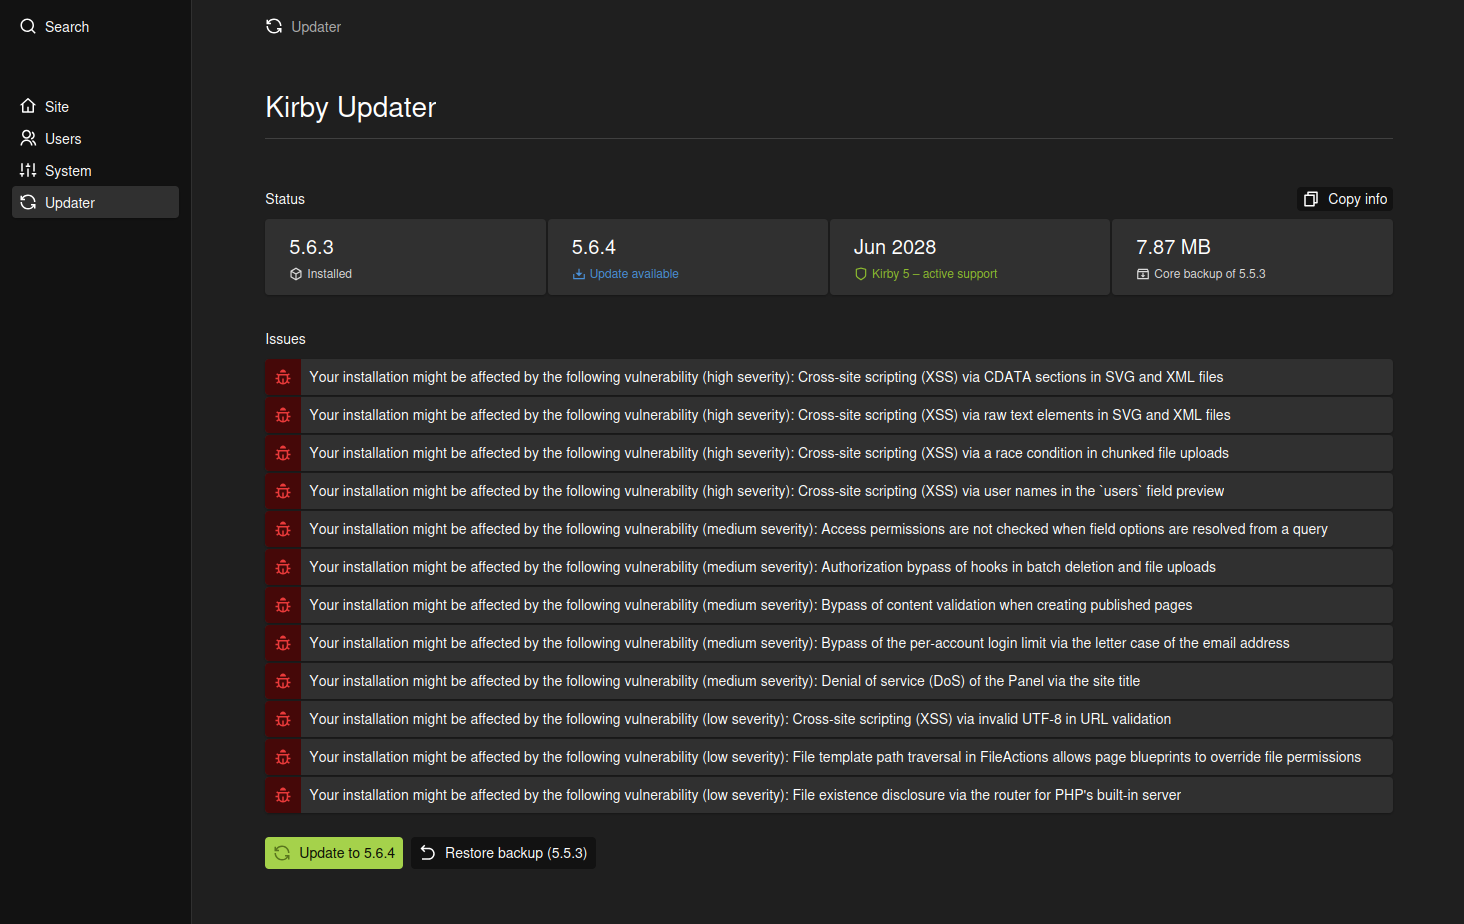
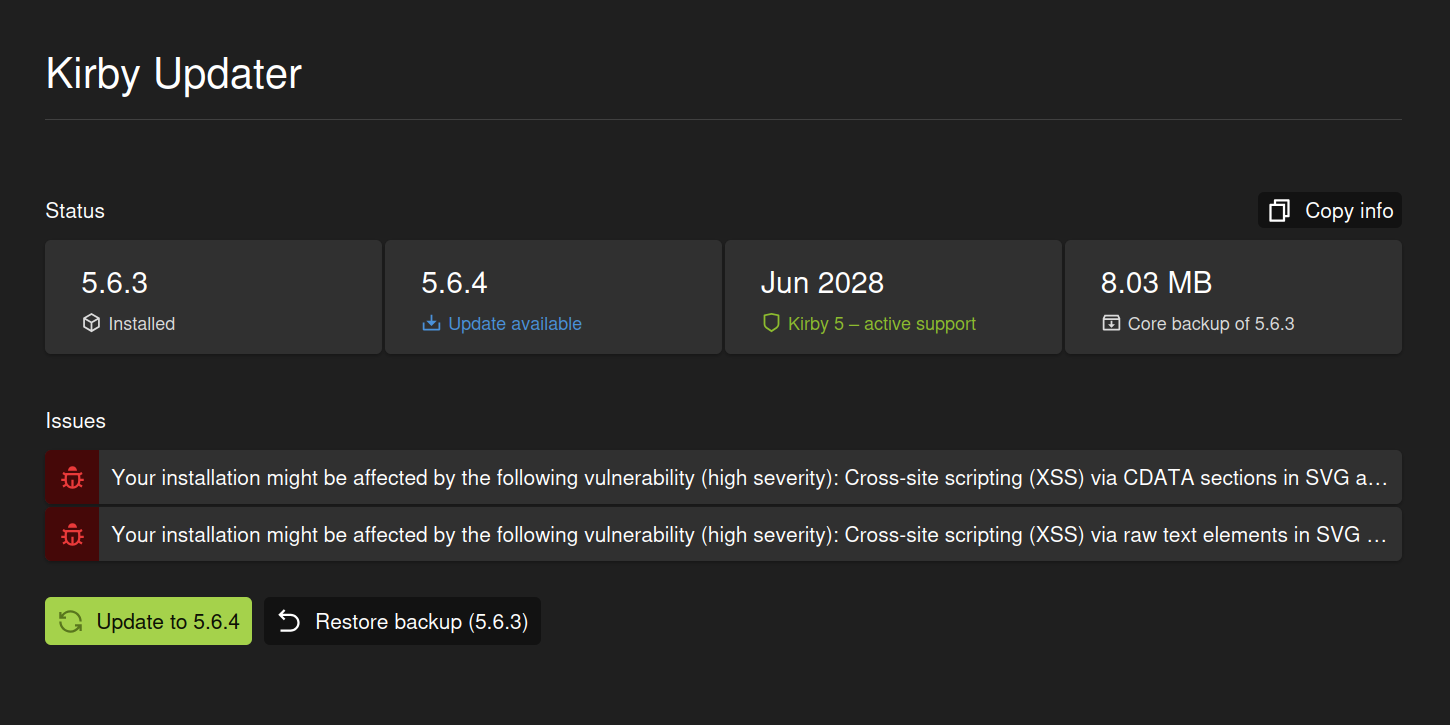
➕ Support patch-only updates via the new releases.json endpoint

diff --git a/src/Updater.php b/src/Updater.php
@@ -19,6 +19,7 @@ use Throwable;
 class Updater
 {
 	public const DATA_URL     = 'https://getkirby.com/security.json';
+	public const RELEASES_URL = 'https://getkirby.com/releases.json';
 	public const DOWNLOAD_URL = 'https://github.com/getkirby/kirby/archive/refs/tags/{version}.zip';
 
 	protected array|null $data = null;
@@ -49,7 +50,7 @@ class Updater
 	{
 		try {
 			$target   = $this->targetVersion();
-			$blockers = $this->blockers($target);
+			$blockers = $this->blockers();
 		} catch (Throwable $e) {
 			$target   = null;
 			$blockers = [$e->getMessage()];
@@ -93,7 +94,8 @@ class Updater
 	}
 
 	/**
-	 * Latest release of the current major version,
+	 * Latest release of the current major version (or of the current
+	 * minor version, if minor updates are disabled),
 	 * `null` if the installation is up to date
 	 */
 	public function targetVersion(): string|null
@@ -101,6 +103,10 @@ class Updater
 		$current = $this->kirby->version();
 		$major   = explode('.', $current)[0];
 		$latest  = $this->data()['versions'][$major . '.*']['latest'] ?? null;
+
+		if ($this->option('allowMinor') === false) {
+			$latest = $this->latestPatch($current);
+		}
 
 		if (is_string($latest) === false || version_compare($latest, $current, '<=') === true) {
 			return null;
@@ -112,7 +118,7 @@ class Updater
 	/**
 	 * Reasons that prevent an update
 	 */
-	public function blockers(string|null $target = null): array
+	public function blockers(): array
 	{
 		$root     = $this->root();
 		$parent   = dirname($root);
@@ -147,14 +153,6 @@ class Updater
 			$blockers[] = 'The kirby folder and the site folder are on different filesystems.';
 		}
 
-		if (
-			$target !== null &&
-			$this->option('allowMinor') === false &&
-			$this->minor($target) !== $this->minor($this->kirby->version())
-		) {
-			$blockers[] = 'Minor updates are disabled by the `devmount.kirby-updater.allowMinor` option.';
-		}
-
 		$free = @disk_free_space($site);
 		$size = Dir::size($root);
 
@@ -187,7 +185,7 @@ class Updater
 		try {
 			$target = $this->targetVersion() ?? throw new Exception(message: 'Kirby is already up to date');
 
-			if (($blockers = $this->blockers($target)) !== []) {
+			if (($blockers = $this->blockers()) !== []) {
 				throw new Exception(message: implode(' ', $blockers));
 			}
 
@@ -446,6 +444,25 @@ class Updater
 		}
 
 		return $this->data = $data;
+	}
+
+	/**
+	 * Latest release of the given minor version,
+	 * based on the list of all Kirby releases
+	 */
+	protected function latestPatch(string $version): string|null
+	{
+		$response = Remote::get(static::RELEASES_URL, ['timeout' => 10]);
+		$versions = $response->code() === 200 ? $response->json()['versions'] ?? null : null;
+
+		if (is_array($versions) === false) {
+			throw new Exception(message: 'Could not load the release list from getkirby.com');
+		}
+
+		$patches = array_filter($versions, fn ($release) => $this->minor($release) === $this->minor($version));
+		usort($patches, 'version_compare');
+
+		return end($patches) ?: null;
 	}
 
 	protected function versionOf(string $dir): string|null

diff --git a/README.md b/README.md
@@ -51,7 +51,7 @@ return [
   'devmount.kirby-updater' => [
     // number of kirby folder backups to keep (at least 1)
     'backups'    => 1,
-    // false only allows patch updates
+    // false only allows patch updates of the installed minor version
     'allowMinor' => true,
     // false, true (requests the Panel login page) or a URL
     // that is requested after the swap, rolling back on a 5xx response
@@ -64,7 +64,6 @@ return [
 
 - Plugins may be incompatible with a new minor release. Use "Restore backup" in that case.
 - Any changes made inside the `kirby/` folder are replaced by the update. They only survive in the backup until the next update removes it.
-- getkirby.com only publishes the latest release per major version. With `allowMinor` set to `false`, no update is offered at all once a newer minor release exists, even if there are newer patch releases of your minor version.
 - GitHub archives have no published checksums, so the download is validated by structure and version only.
 
 ## License
